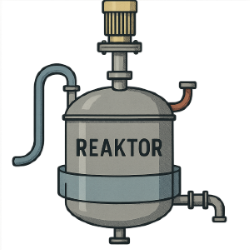
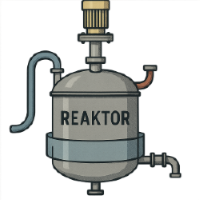
fixing dimensions

diff --git a/src/scenes/chemistryScene4.js b/src/scenes/chemistryScene4.js
@@ -98,8 +98,8 @@ export default class ChemistryScene4 extends Phaser.Scene {
 
     // Reactor at top
     const reactorX = width / 2;
-    const reactorY = 220; // move lower for more breathing room
-    const reactor = this.add.image(reactorX, reactorY, 'reaktor').setDisplaySize(300, 300);
+    const reactorY = 160; // move lower for more breathing room
+    const reactor = this.add.image(reactorX, reactorY, 'reaktor').setDisplaySize(250, 250);
     reactor.setVisible(false);
 
     // Screen panel below the reactor
@@ -134,7 +134,7 @@ export default class ChemistryScene4 extends Phaser.Scene {
     g.destroy();
 
     // Fume emitter above reactor, subtle reddish smoke
-    const fumeEmitter = this.add.particles(reactorX, reactorY - 160, 'acidFume', {
+    const fumeEmitter = this.add.particles(reactorX, reactorY - 130, 'acidFume', {
       angle: { min: 260, max: 280 },
       speed: { min: 15, max: 40 },
       scale: { start: 0.7, end: 1.4 },

diff --git a/src/scenes/chemistryScene1.js b/src/scenes/chemistryScene1.js
@@ -121,10 +121,9 @@ export default class ChemistryScene1 extends Phaser.Scene {
 		feedbackText.setVisible(false);
 
 		// Reactor (appears only at Question 2)
-		// Reactor is 300x300; place centered below screen
 		const reactorX = width / 2;
-		const reactorY = screenY + screenH + 180;
-		const reactor = this.add.image(reactorX, reactorY, 'reaktor').setDisplaySize(300, 300);
+		const reactorY = screenY + screenH + 145;
+		const reactor = this.add.image(reactorX, reactorY, 'reaktor').setDisplaySize(250, 250);
 		reactor.setVisible(false);
 
 		// Smoke emitter (Phaser 3.60+ API: add.particles returns an emitter)
